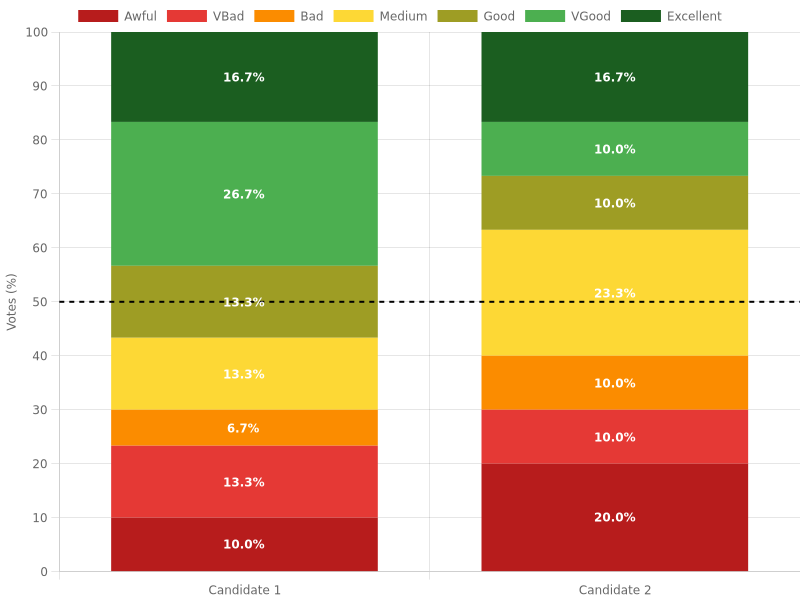
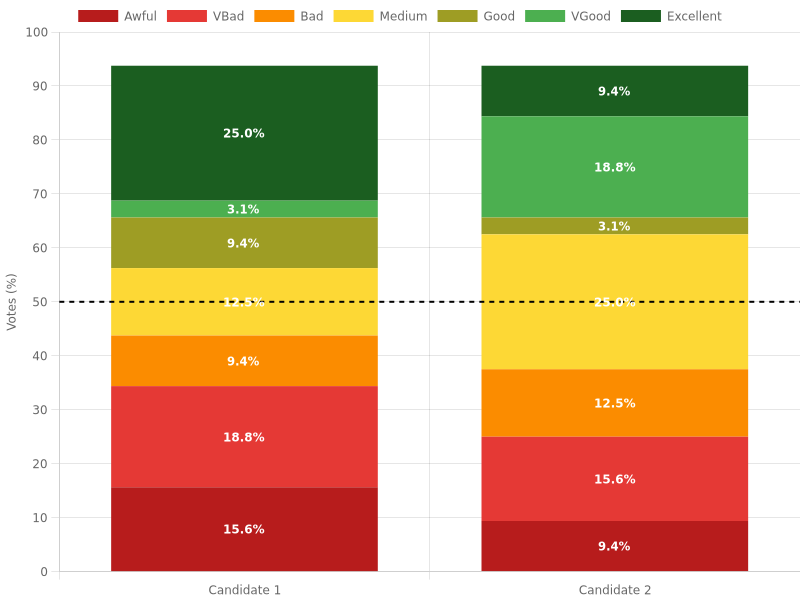
Small fixes.

diff --git a/test/MJVS.ts b/test/MJVS.ts
@@ -149,8 +149,10 @@ describe("MJVS Tests", function () {
     const candidateNumber = Number(await this.voteContract.candidateNumber());
     const voteNumber = Number(await this.voteContract.voteCount());
     const total_scores = [];
+    let trueVoteCount = 0;
 
     for (let i = 0; i < candidateNumber; i++) {
+      trueVoteCount = 0;
       const result = await this.voteContract.result(i);
       const [Excellent, VGood, Good, Medium, Bad, VBad, Awful] = result;
       const candidateGrades = [
@@ -165,7 +167,6 @@ describe("MJVS Tests", function () {
       total_scores.push(candidateGrades);
       log_str = `Results for candidate ${i + 1} : \n\t\tExcellent :${Excellent}\n\t\tVGood :${VGood}\n\t\tGood : ${Good}\n\t\tMedium: ${Medium}\n\t\tBad : ${Bad}\n\t\tVBad : ${VBad}\n\t\tAwful : ${Awful}`;
       log(log_str, "display decrypted scores");
-      let trueVoteCount = 0;
       for (let i = 0; i < candidateGrades.length; i++) {
         trueVoteCount += candidateGrades[i];
       }
@@ -176,7 +177,9 @@ describe("MJVS Tests", function () {
     log_str = `Total number of votes (including illicit votes) : ${voteNumber}`;
     log(log_str, "display decrypted scores");
 
-    await generateChart(total_scores, voteNumber);
+    //Here we use true vote count to have a matching scale on the chart.
+    //If we were using voteNumber, we would be representing 30 votes in a scale where 100% would represent 32 votes.
+    await generateChart(total_scores, trueVoteCount);
   });
 });
 
